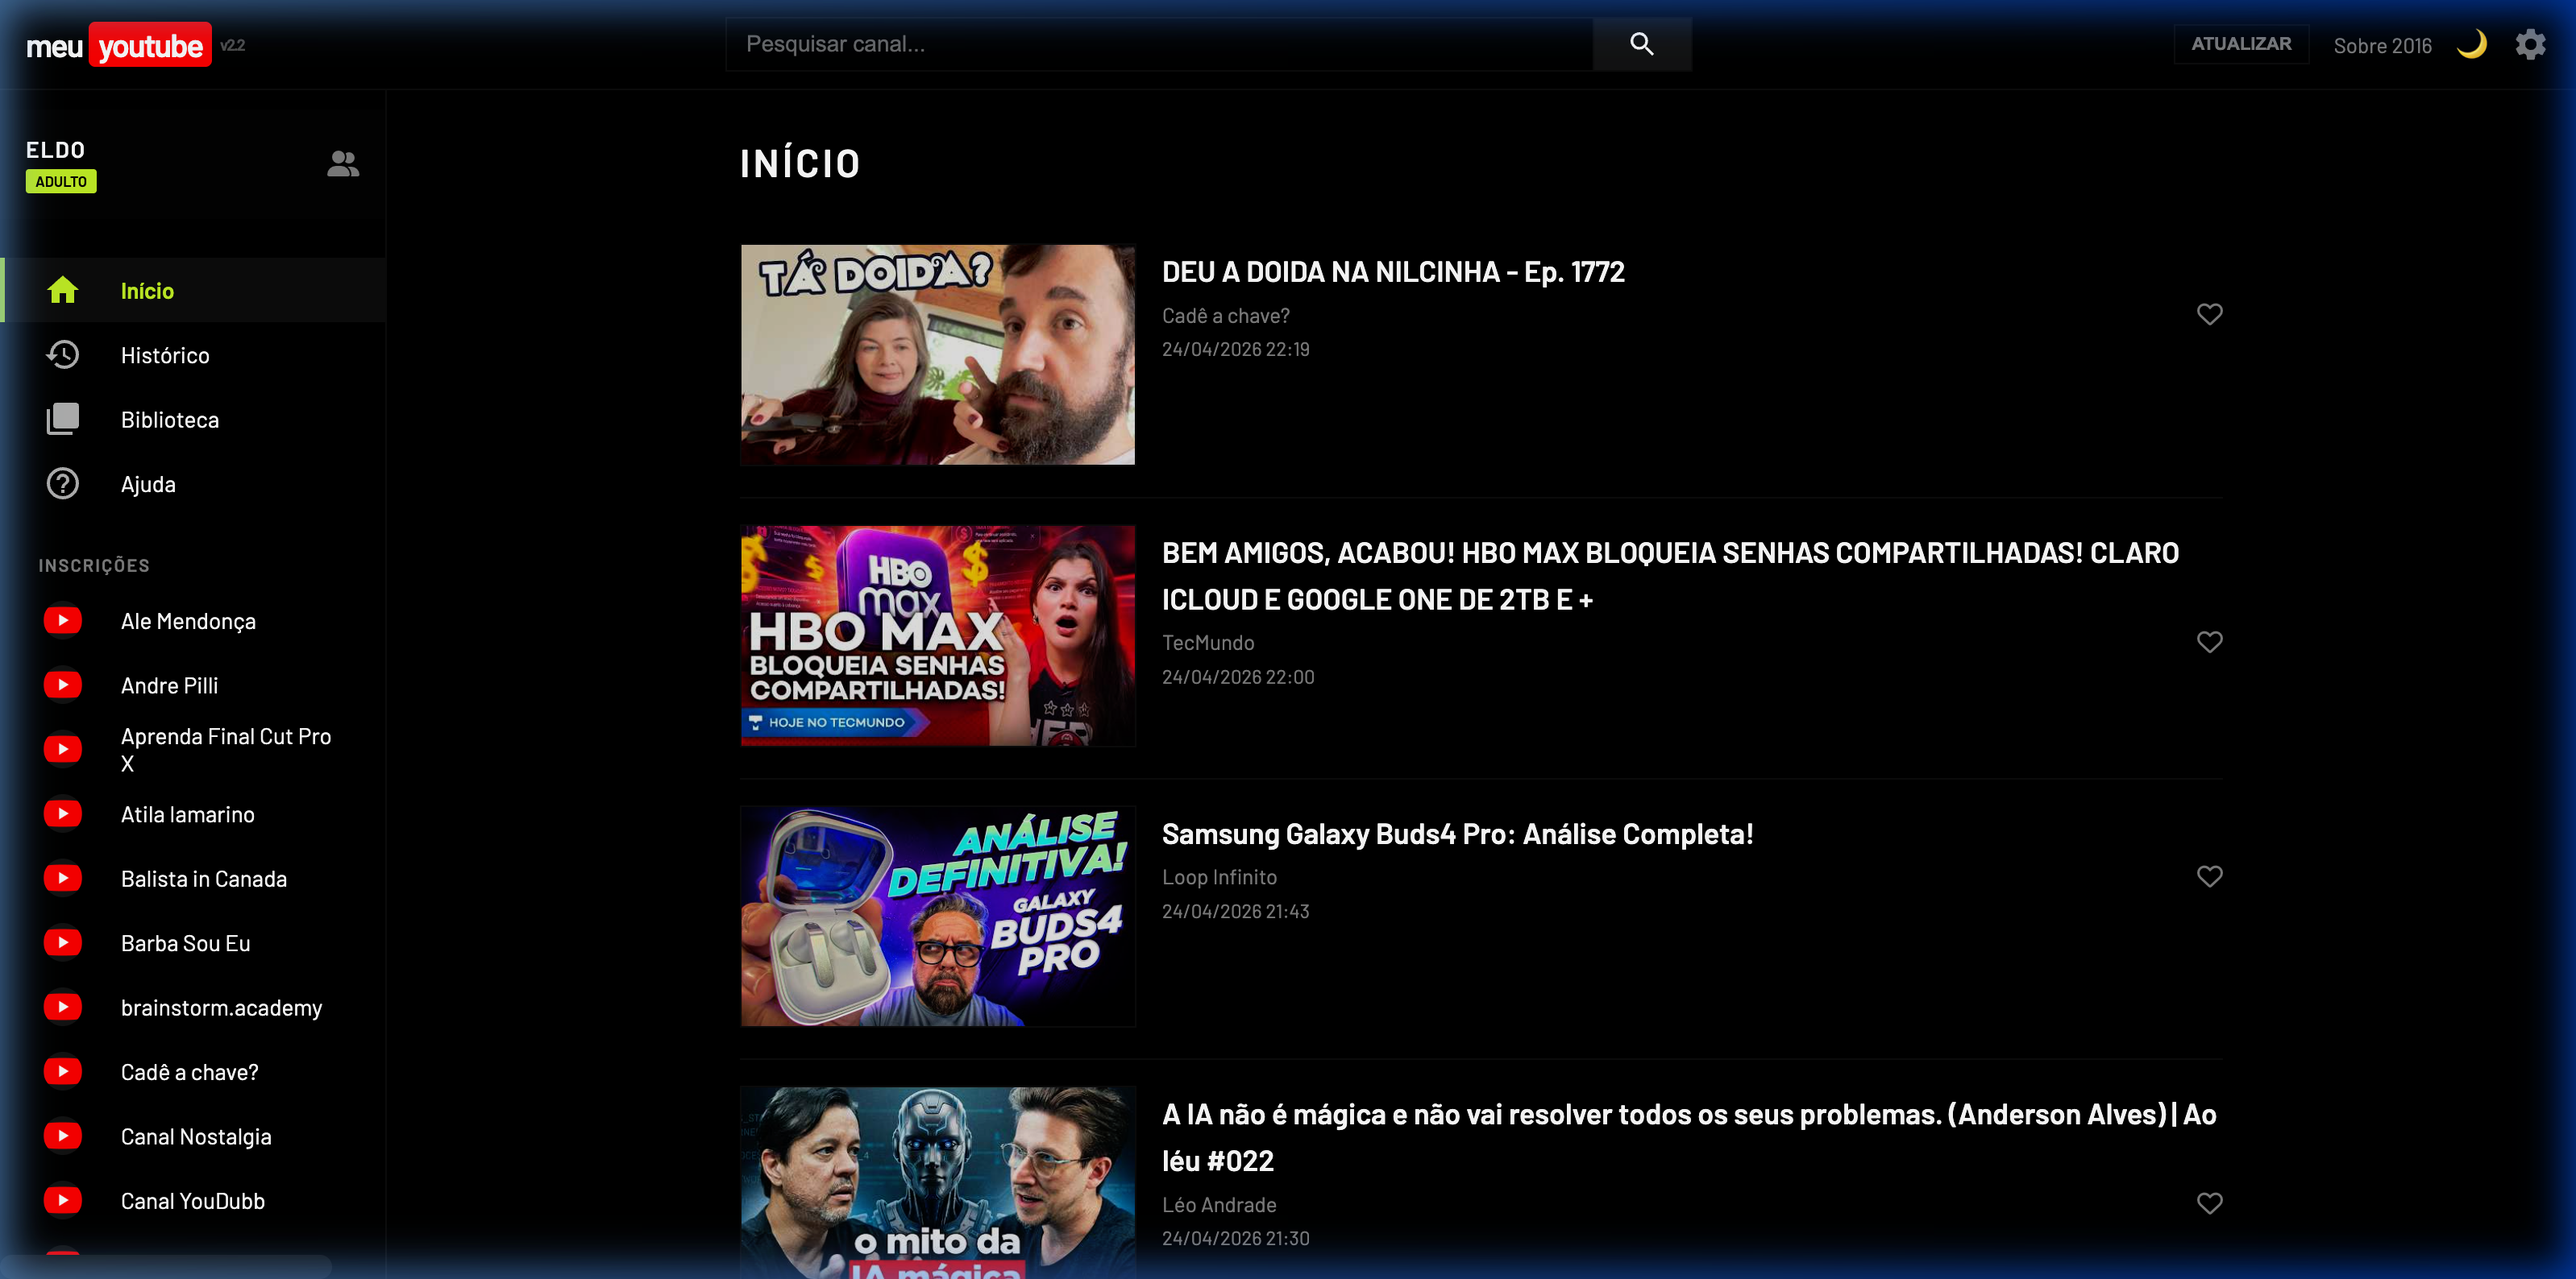
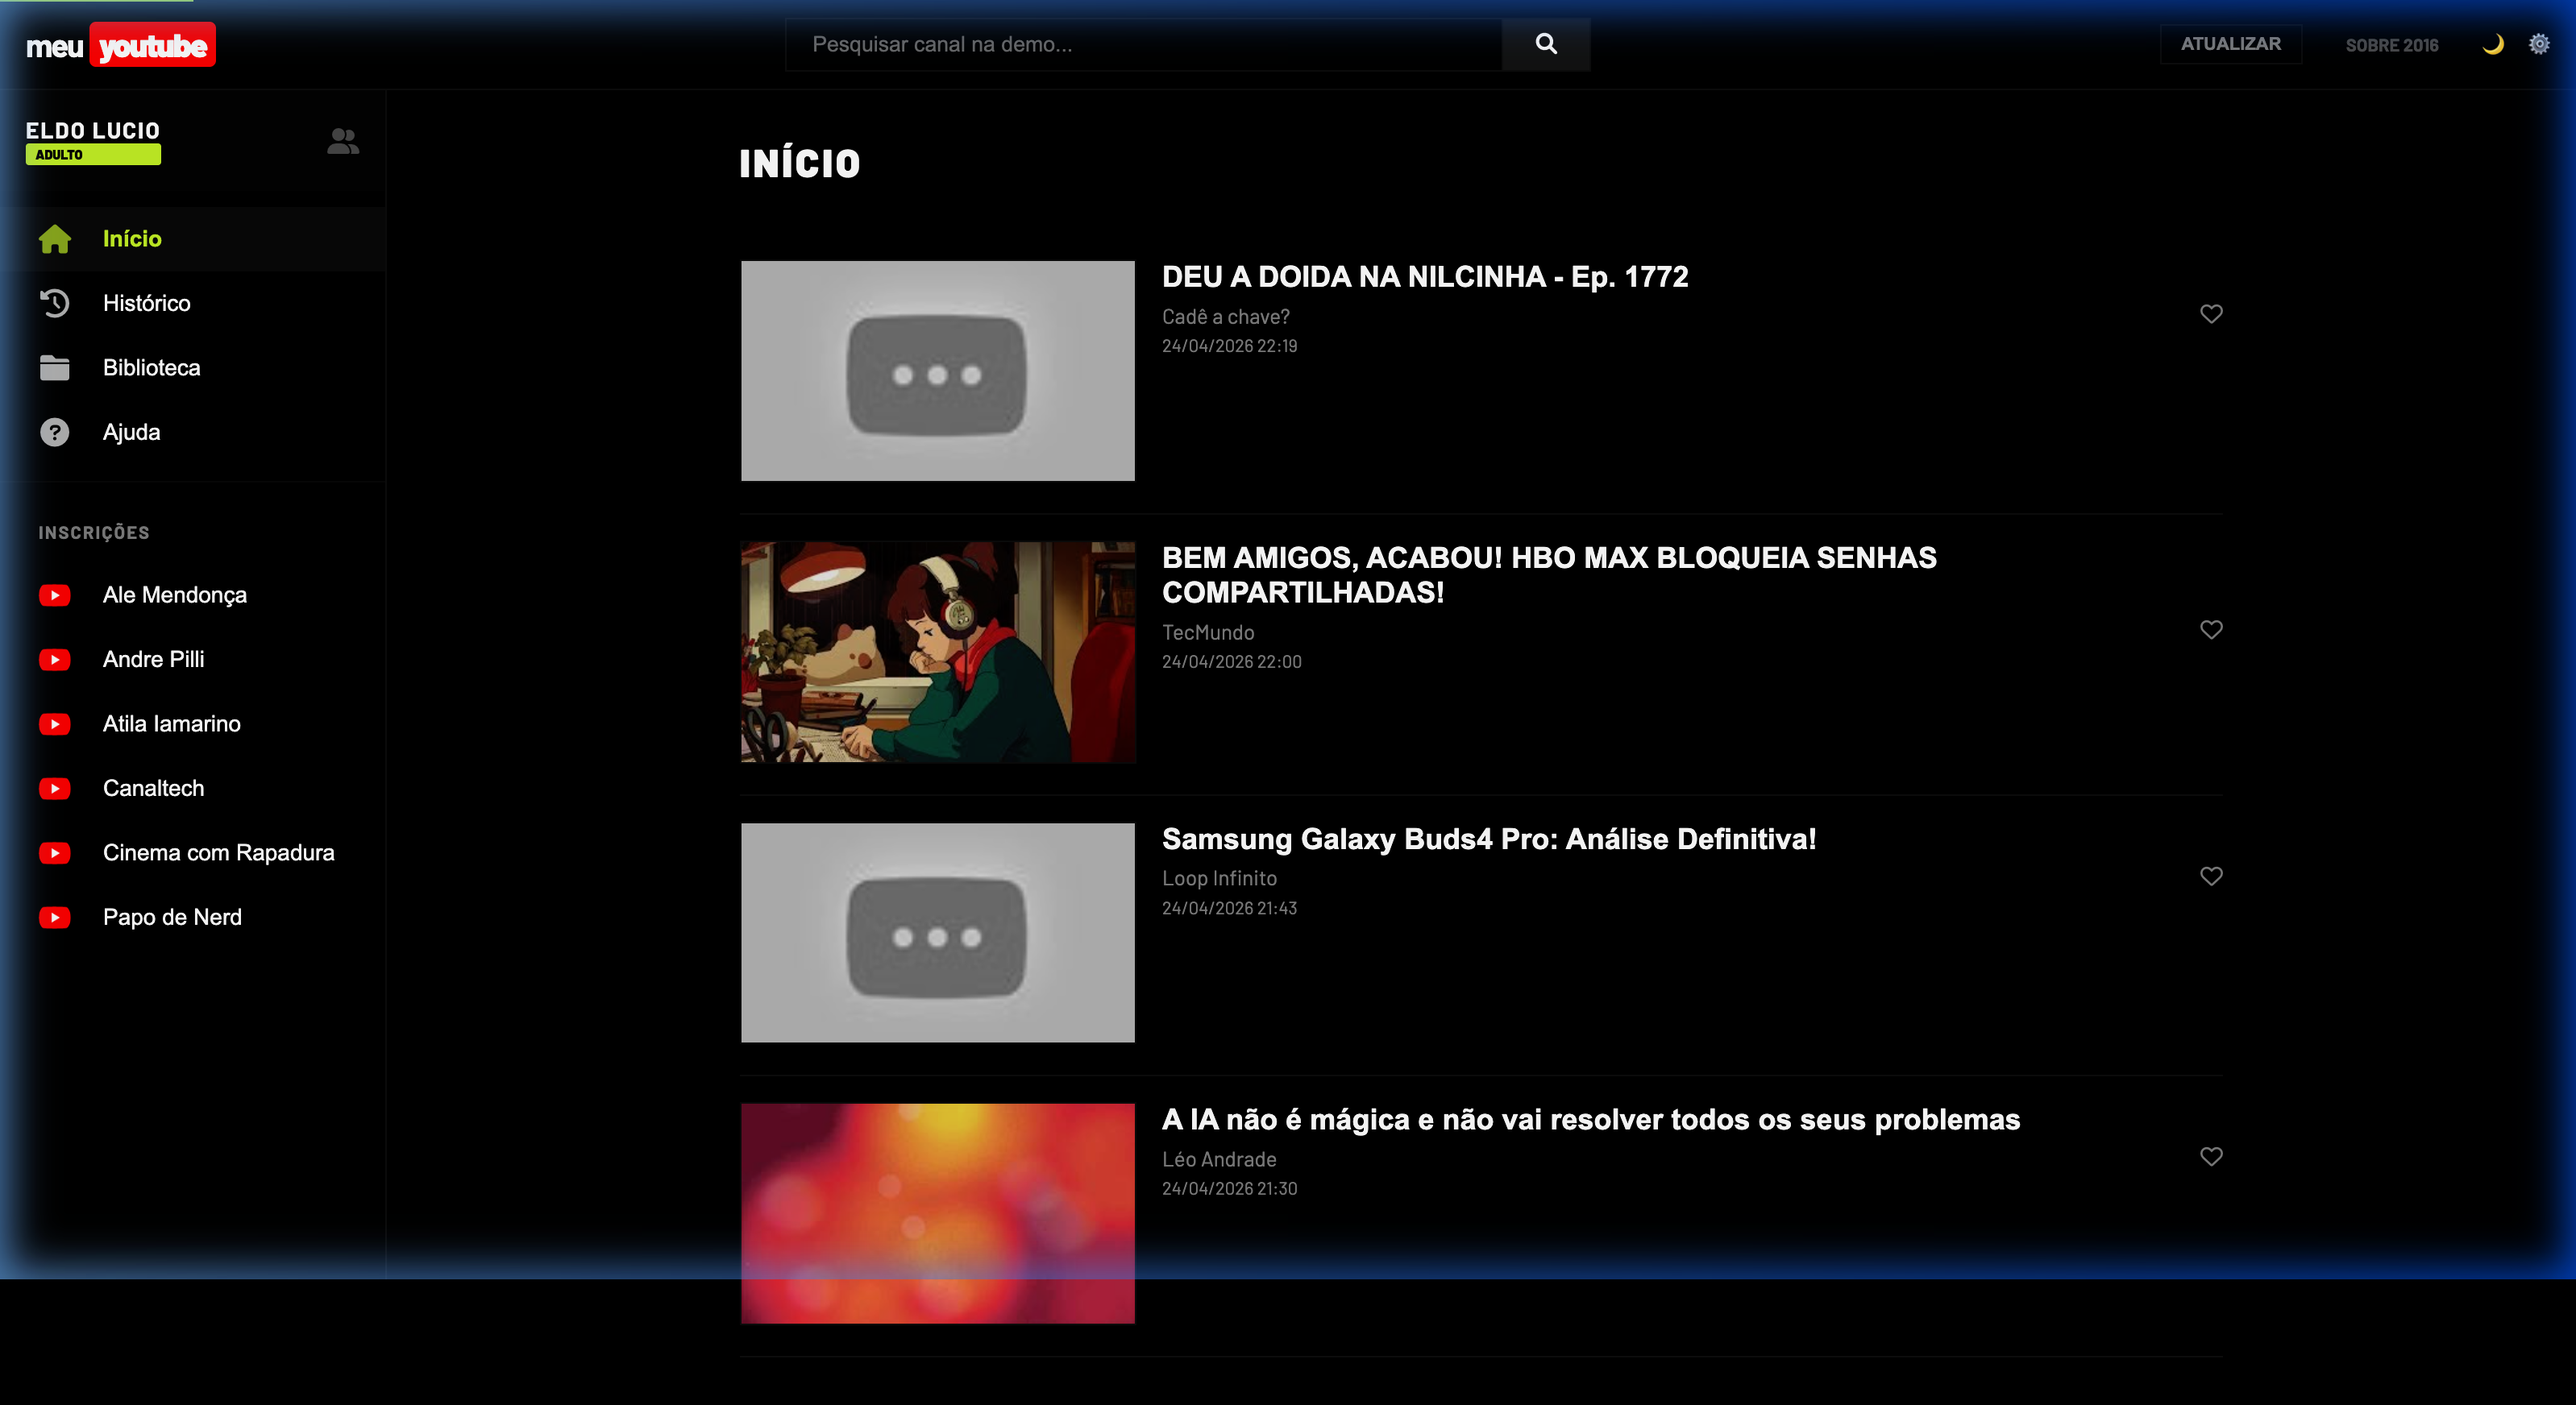
docs: finalize README with static showcase focus and updated look

diff --git a/README.md b/README.md
@@ -1,58 +1,42 @@
 # meu **youtube** 🌑 v2.5.0
 > O seu dock de monitoramento industrial ultra-rápido, livre de distrações e focado em alta performance.
 
-[![Live Demo (Vercel)](https://img.shields.io/badge/Live_App-Vercel-black?style=for-the-badge&logo=vercel)](https://meu-youtube-eight.vercel.app/)
 [![Static Showcase (GitHub)](https://img.shields.io/badge/Showcase-GitHub_Pages-lime?style=for-the-badge&logo=github)](https://eldolucio.github.io/meu-youtube/)
-[![Manifesto](https://img.shields.io/badge/Manifesto-Independência_Digital-white?style=for-the-badge)](https://meu-youtube-eight.vercel.app/sobre)
+[![Manifesto](https://img.shields.io/badge/Manifesto-Independência_Digital-white?style=for-the-badge)](https://eldolucio.github.io/meu-youtube/sobre)
 
 ![Preview do Dashboard](screenshot.png)
 
 ## ⚙ O que é este projeto?
 
-O **meu-youtube** não é apenas mais um leitor de vídeos; é um **Monitor Tecnológico Industrial** feito para editores de vídeo, criadores e profissionais que precisam de referências sem o ruído do algoritmo do YouTube. 
+O **meu-youtube** não é apenas mais um leitor de vídeos; é um **Monitor Tecnológico Industrial** feito para profissionais que precisam de referências sem o ruído do algoritmo do YouTube. 
 
 Ele elimina anúncios, shorts e recomendações viciantes, entregando um feed puro, preto absoluto (OLED) e totalmente sob seu controle.
 
 ---
 
-## 🚀 Novas Funcionalidades (v2.5.0)
+## 🚀 Funcionalidades Principais
 
 ### 🌓 Monitor de Edição (Auto-Refresh Pandora)
-O dashboard conta com um **Auto-Refresh Assíncrono**. Uma linha de progresso finíssima no topo indica a próxima varredura de vídeos. Ele atualiza seu feed em segundo plano sem interromper o que você está assistindo no player.
+O dashboard conta com um **Auto-Refresh Assíncrono**. Uma linha de progresso finíssima no topo indica a próxima varredura de vídeos. Ele atualiza seu feed em segundo plano sem interromper a navegação.
 
-### 👤 Gestão Multi-Perfil & Segurança
-Agora a casa inteira pode usar! Implementamos uma gestão completa de perfis baseada em idade com persistência em PostgreSQL:
-- **Adulto (18+)**: Acesso total, focado em monitoramento profissional.
+### 👤 Gestão Multi-Perfil
+Suporte a múltiplos perfis com categorias de filtragem:
+- **Adulto**: Acesso total, monitoramento profissional.
 - **Adolescente**: Filtros de conteúdo moderados.
 - **Criança**: Filtro restritivo automático.
 
-### 🎨 Estética Industrial OLED & Manifesto
-Fundo em **#000000** real, tipografia **Barlow 900** e acentos em **Verde Limão**. O projeto inclui um **Manifesto Autoral** que explica a filosofia por trás da ferramenta.
+### 🎨 Estética Industrial OLED
+Fundo em **#000000** real, tipografia **Barlow 900** e acentos em **Verde Limão**. Desenhado para máxima economia de energia e foco visual.
 
 ---
 
-## 🛠 Como usar (Guia Rápido)
+## 🛠 Como usar (Vitrine Estática)
 
-### 1. Traga seus inscritos (Google Takeout)
-1. Vá ao **[Google Takeout](https://takeout.google.com/)**, marque apenas **YouTube** e selecione a pasta **subscriptions**.
-2. Baixe o arquivo **`subscriptions.csv`**.
-3. No dashboard, abra a **Engrenagem ⚙** e faça o upload.
+Esta versão no GitHub Pages é uma **demonstração interativa**. Você pode explorar a interface, trocar o tema (Light/Dark) e abrir o player de vídeo para ver como o sistema funciona na prática.
 
-### 2. Configure seu Perfil
-Ao entrar pela primeira vez, crie seu perfil. Você pode gerenciar vários usuários e alternar entre eles instantaneamente.
+Para a versão completa com sincronização RSS e banco de dados, o código-fonte está disponível neste repositório para deploy autônomo.
 
 ---
 
-## 📦 Instalação e Deploy
-
-**Deploy na Vercel (Recomendado)**:
-Conecte este repositório e configure a variável de ambiente `POSTGRES_URL`.
-
-**Rodando Localmente**:
-1. Instale: `pip install -r requirements.txt`
-2. Execute: `python app.py`
-
----
-
-**Tecnologias**: Python (Flask), Vercel Postgres, AJAX SPA Architecture, OLED Industrial Design.
+**Tecnologias**: HTML5 Semântico, CSS Industrial, JavaScript (SPA Mocking).
 **Desenvolvido para Máxima Produtividade.** 🌑⚙📈
